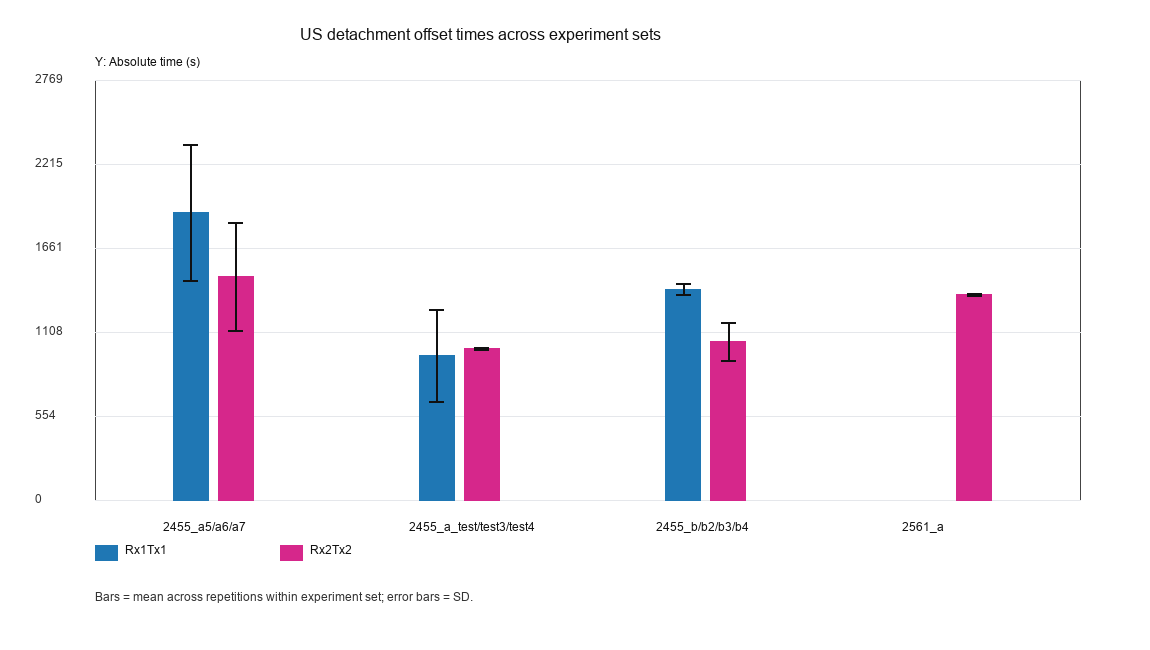
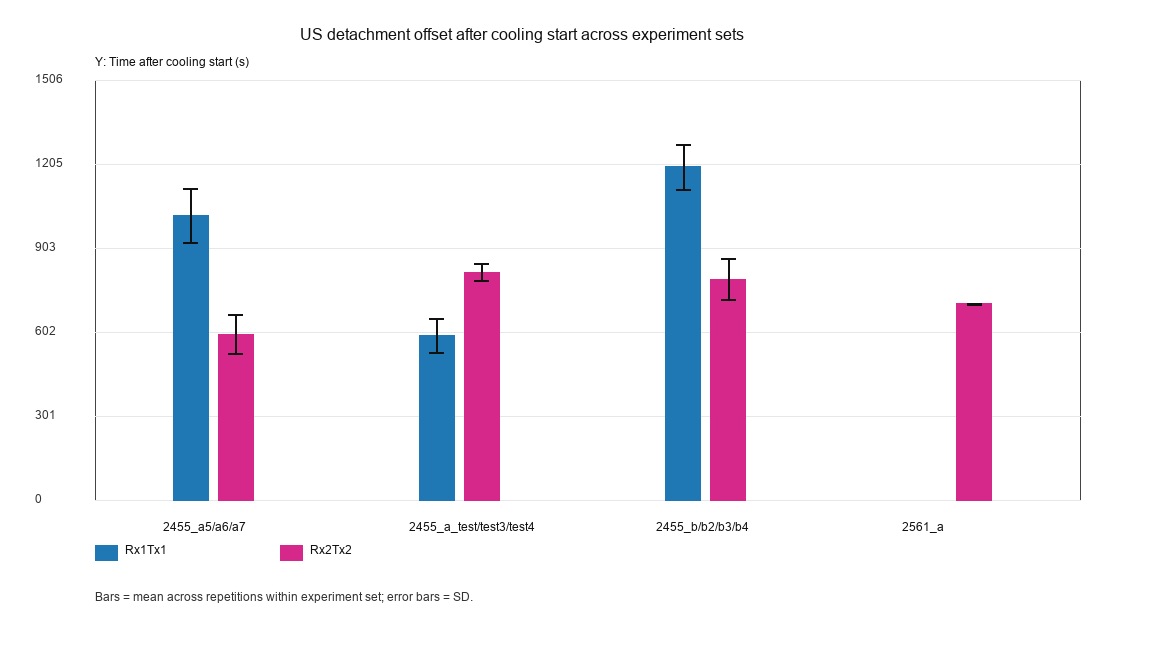
Use cooling-relative detachment offsets

diff --git a/analyze_lab_trials.py b/analyze_lab_trials.py
@@ -1967,6 +1967,9 @@ def detachment_summary_comparison(tables: dict[str, pd.DataFrame], detachment_of
         rx2_onset = pd.to_numeric(pd.Series([rx2_row.get("detachment_onset_absolute_s", np.nan)]), errors="coerce").iloc[0]
         rx1_duration = rx1_offset - rx1_onset if pd.notna(rx1_offset) and pd.notna(rx1_onset) else np.nan
         rx2_duration = rx2_offset - rx2_onset if pd.notna(rx2_offset) and pd.notna(rx2_onset) else np.nan
+        primary_offset_rel = primary_offset - cooling_start if pd.notna(primary_offset) and pd.notna(cooling_start) else np.nan
+        rx1_offset_rel = rx1_offset - cooling_start if pd.notna(rx1_offset) and pd.notna(cooling_start) else np.nan
+        rx2_offset_rel = rx2_offset - cooling_start if pd.notna(rx2_offset) and pd.notna(cooling_start) else np.nan
         full_both = bool(
             rx1_row.get("detachment_offset_status") == "full_detachment_for_channel"
             and rx2_row.get("detachment_offset_status") == "full_detachment_for_channel"
@@ -1981,22 +1984,26 @@ def detachment_summary_comparison(tables: dict[str, pd.DataFrame], detachment_of
                 "dataset": lm_pref.get("dataset", ""),
                 "rep_id": rep_id,
                 "raw_sheet": "at" + rep_id,
+                "cooling_start_s": cooling_start,
                 "primary_channel": primary["channel"],
                 "primary_rule": "Rx2Tx2 is the primary comparison channel when present; Rx1Tx1 is retained as parallel-sensor validation.",
                 "summary_sensor_code_used": lm_pref.get("sensor_code", ""),
                 "summary_detachment_onset_abs_s": summary_onset_abs,
                 "primary_detachment_onset_abs_s": primary_onset,
                 "primary_us_offset_s": primary_offset,
+                "primary_us_offset_rel_to_cooling_s": primary_offset_rel,
                 "primary_us_detachment_duration_s": primary_duration,
                 "primary_us_offset_status": primary.get("detachment_offset_status", ""),
                 "primary_us_change_points_until_offset_or_last": primary.get("change_points_until_detachment_or_last", np.nan),
                 "primary_us_level_at_decision": primary.get("us_level_at_decision", np.nan),
                 "rx1_status": rx1_row.get("detachment_offset_status", ""),
                 "rx1_offset_s": rx1_offset,
+                "rx1_offset_rel_to_cooling_s": rx1_offset_rel,
                 "rx1_detachment_duration_s": rx1_duration,
                 "rx1_change_points_until_offset_or_last": rx1_row.get("change_points_until_detachment_or_last", np.nan),
                 "rx2_status": rx2_row.get("detachment_offset_status", ""),
                 "rx2_offset_s": rx2_offset,
+                "rx2_offset_rel_to_cooling_s": rx2_offset_rel,
                 "rx2_detachment_duration_s": rx2_duration,
                 "rx2_change_points_until_offset_or_last": rx2_row.get("change_points_until_detachment_or_last", np.nan),
                 "rx2_minus_rx1_offset_s": rx2_offset - rx1_offset if pd.notna(rx1_offset) and pd.notna(rx2_offset) else np.nan,
@@ -2153,9 +2160,9 @@ def detachment_figure_data_used(comparison: pd.DataFrame) -> pd.DataFrame:
         return pd.DataFrame()
     rows = []
     for _, row in comparison.iterrows():
-        for channel, status_col, duration_col, offset_col, cp_col in [
-            ("Rx1Tx1", "rx1_status", "rx1_detachment_duration_s", "rx1_offset_s", "rx1_change_points_until_offset_or_last"),
-            ("Rx2Tx2", "rx2_status", "rx2_detachment_duration_s", "rx2_offset_s", "rx2_change_points_until_offset_or_last"),
+        for channel, status_col, duration_col, offset_col, rel_offset_col, cp_col in [
+            ("Rx1Tx1", "rx1_status", "rx1_detachment_duration_s", "rx1_offset_s", "rx1_offset_rel_to_cooling_s", "rx1_change_points_until_offset_or_last"),
+            ("Rx2Tx2", "rx2_status", "rx2_detachment_duration_s", "rx2_offset_s", "rx2_offset_rel_to_cooling_s", "rx2_change_points_until_offset_or_last"),
         ]:
             full = row.get(status_col) == "full_detachment_for_channel"
             rows.append(
@@ -2168,7 +2175,8 @@ def detachment_figure_data_used(comparison: pd.DataFrame) -> pd.DataFrame:
                     "used_in_duration_and_offset_figures": bool(full and pd.notna(row.get(duration_col)) and pd.notna(row.get(offset_col))),
                     "used_in_change_point_count_figure": pd.notna(row.get(cp_col)),
                     "detachment_duration_s": row.get(duration_col, np.nan),
-                    "detachment_offset_s": row.get(offset_col, np.nan),
+                    "detachment_offset_absolute_s": row.get(offset_col, np.nan),
+                    "detachment_offset_rel_to_cooling_s": row.get(rel_offset_col, np.nan),
                     "change_points_until_offset_or_last": row.get(cp_col, np.nan),
                     "complete_detachment_sensor_count_for_rep": row.get("complete_detachment_sensor_count", np.nan),
                     "complete_detachment_sensors_for_rep": row.get("complete_detachment_sensors", ""),
@@ -2402,10 +2410,10 @@ def make_detachment_comparison_figures(comparison: pd.DataFrame) -> list[Path]:
     if p is not None:
         paths.append(p)
     offset_series = {
-        "Rx1Tx1": detachment_group_stats(comparison, "rx1_offset_s"),
-        "Rx2Tx2": detachment_group_stats(comparison, "rx2_offset_s"),
+        "Rx1Tx1": detachment_group_stats(comparison, "rx1_offset_rel_to_cooling_s"),
+        "Rx2Tx2": detachment_group_stats(comparison, "rx2_offset_rel_to_cooling_s"),
     }
-    p = make_grouped_bar_figure(offset_series, "US detachment offset times across experiment sets", "Absolute time (s)", "detachment_offsets_grouped_bars.png")
+    p = make_grouped_bar_figure(offset_series, "US detachment offset after cooling start across experiment sets", "Time after cooling start (s)", "detachment_offsets_grouped_bars.png")
     if p is not None:
         paths.append(p)
     p = make_full_sensor_count_distribution_figure(comparison)
@@ -2657,7 +2665,7 @@ def concise_readme() -> pd.DataFrame:
                 "part": "8",
                 "sheet": "Detachment Figure Data",
                 "what_it_answers": "Which exact repetitions were used in the detachment bar plots?",
-                "how_to_read": "Duration and offset plots use only full-detachment rows for that sensor. Change-point count plots include available diagnostic counts, including partial rows.",
+                "how_to_read": "Duration and offset plots use only full-detachment rows for that sensor. Offset comparisons are relative to each trial cooling start. Change-point count plots include available diagnostic counts, including partial rows.",
             },
             {
                 "part": "9",